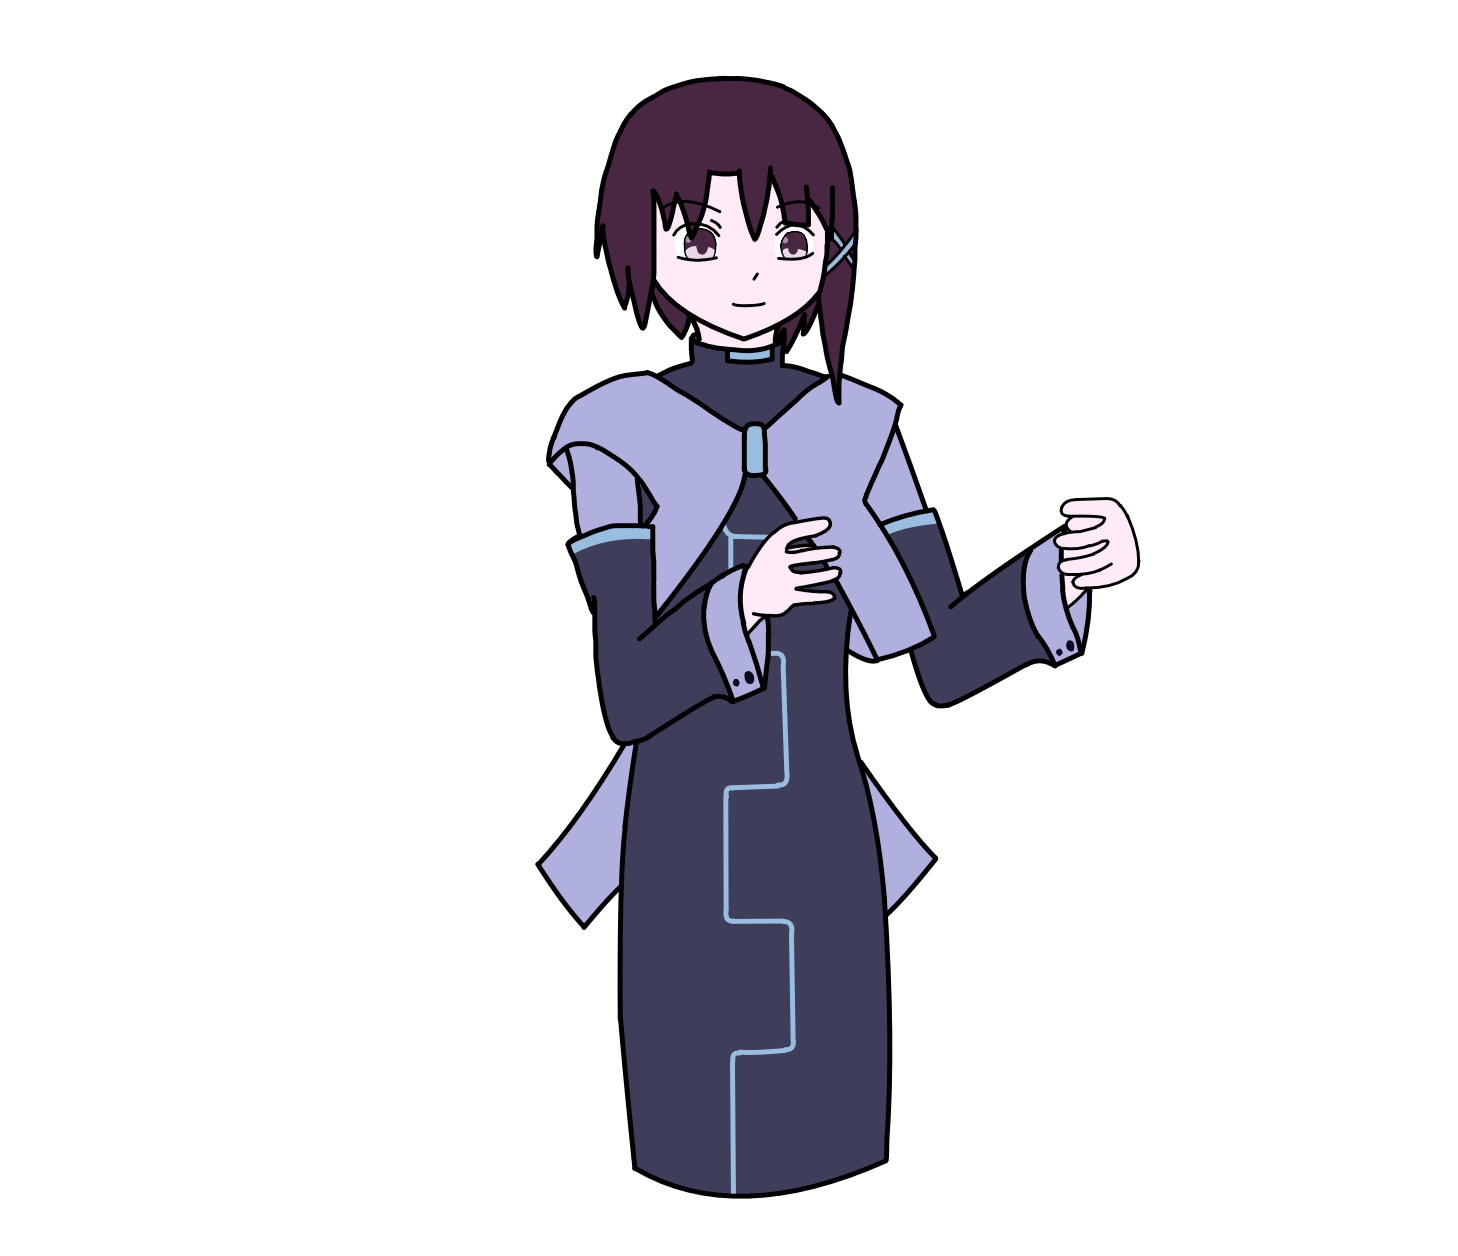
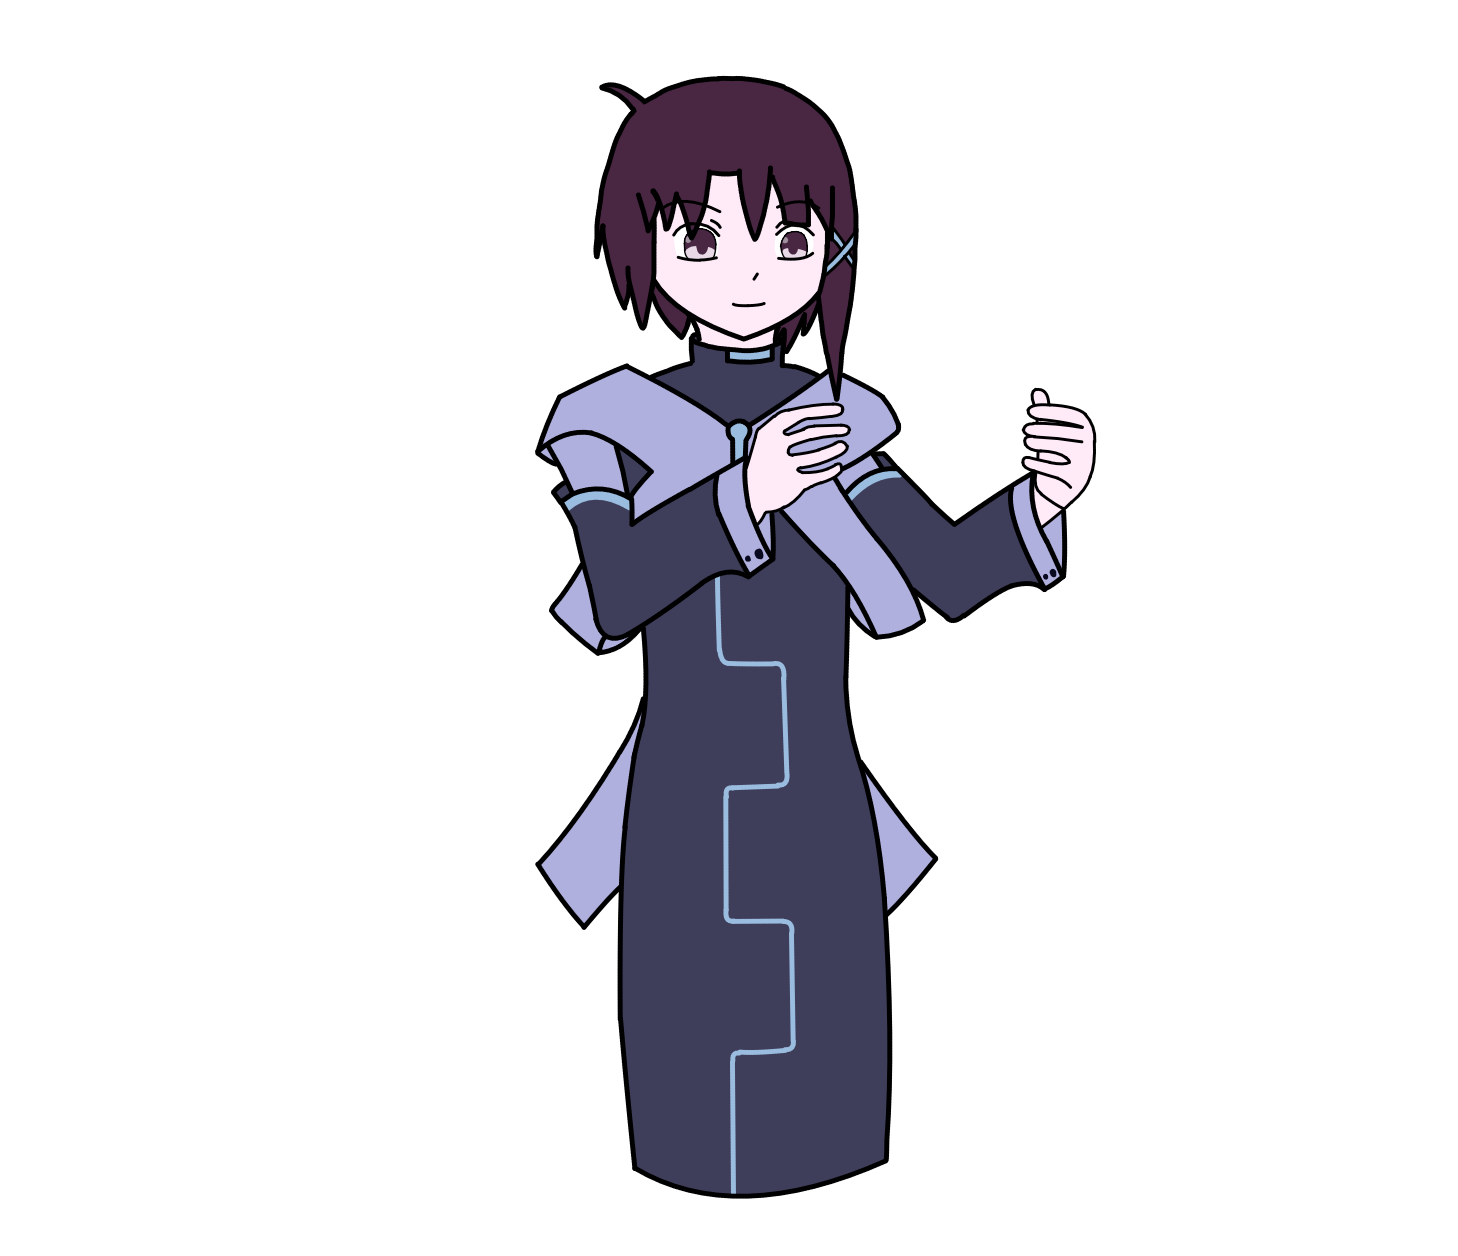
v0.0.18 一部画像でアホ毛が生えていない不具合を修正(画像差し替え) 画像の差し替え・追加 上記に伴うアニメーションの修正 ディレクトリ選択にFolderBrowserDialogを使用するように変更 最小化ボタン追加

diff --git a/PersonaLauncher/PersonaLauncher/Animation/AnimDic.xaml b/PersonaLauncher/PersonaLauncher/Animation/AnimDic.xaml
@@ -78,17 +78,32 @@
                     <BitmapImage UriSource="pack://siteoforigin:,,,/Images/ペルソナ_通常.png" />
 				</DiscreteObjectKeyFrame.Value>
 			</DiscreteObjectKeyFrame>
-			<DiscreteObjectKeyFrame KeyTime="0:0:1">
+			<DiscreteObjectKeyFrame KeyTime="0:0:2">
 				<DiscreteObjectKeyFrame.Value>
                     <BitmapImage UriSource="pack://siteoforigin:,,,/Images/ペルソナ_キャッチ.png" />
 				</DiscreteObjectKeyFrame.Value>
 			</DiscreteObjectKeyFrame>
             <DiscreteObjectKeyFrame KeyTime="0:0:4">
                 <DiscreteObjectKeyFrame.Value>
-                    <BitmapImage UriSource="pack://siteoforigin:,,,/Images/ペルソナ_投げ.png" />
+                    <BitmapImage UriSource="pack://siteoforigin:,,,/Images/ペルソナ_投げ_6.png" />
                 </DiscreteObjectKeyFrame.Value>
             </DiscreteObjectKeyFrame>
-            <DiscreteObjectKeyFrame KeyTime="0:0:7">
+            <DiscreteObjectKeyFrame KeyTime="0:0:4.1">
+                <DiscreteObjectKeyFrame.Value>
+                    <BitmapImage UriSource="pack://siteoforigin:,,,/Images/ペルソナ_投げ_7.png" />
+                </DiscreteObjectKeyFrame.Value>
+            </DiscreteObjectKeyFrame>
+            <DiscreteObjectKeyFrame KeyTime="0:0:4.2">
+                <DiscreteObjectKeyFrame.Value>
+                    <BitmapImage UriSource="pack://siteoforigin:,,,/Images/ペルソナ_投げ_8.png" />
+                </DiscreteObjectKeyFrame.Value>
+            </DiscreteObjectKeyFrame>
+            <DiscreteObjectKeyFrame KeyTime="0:0:5.5">
+                <DiscreteObjectKeyFrame.Value>
+                    <BitmapImage UriSource="pack://siteoforigin:,,,/Images/ペルソナ_投げ_9.png" />
+                </DiscreteObjectKeyFrame.Value>
+            </DiscreteObjectKeyFrame>
+            <DiscreteObjectKeyFrame KeyTime="0:0:6">
 				<DiscreteObjectKeyFrame.Value>
                     <BitmapImage UriSource="pack://siteoforigin:,,,/Images/ペルソナ_通常.png" />
 				</DiscreteObjectKeyFrame.Value>
@@ -108,7 +123,7 @@
                     <QuadraticEase EasingMode="EaseOut" />
                 </EasingDoubleKeyFrame.EasingFunction>
             </EasingDoubleKeyFrame>
-            <EasingDoubleKeyFrame KeyTime="0:0:2.4" Value="430">
+            <EasingDoubleKeyFrame KeyTime="0:0:2.4" Value="420">
                 <EasingDoubleKeyFrame.EasingFunction>
                     <QuadraticEase EasingMode="EaseIn" />
                 </EasingDoubleKeyFrame.EasingFunction>
@@ -119,7 +134,7 @@
                                        Duration="0:0:2.4"
                                        >
             <DiscreteDoubleKeyFrame KeyTime="0:0:1" Value="330" />
-            <LinearDoubleKeyFrame KeyTime="0:0:2.4" Value="240" />
+            <LinearDoubleKeyFrame KeyTime="0:0:2.4" Value="190" />
         </DoubleAnimationUsingKeyFrames>
     </Storyboard>
     <Storyboard x:Key="RightLowerMoveEnd">
@@ -152,7 +167,7 @@
                     <QuadraticEase EasingMode="EaseOut" />
                 </EasingDoubleKeyFrame.EasingFunction>
             </EasingDoubleKeyFrame>
-            <EasingDoubleKeyFrame KeyTime="0:0:2.4" Value="430">
+            <EasingDoubleKeyFrame KeyTime="0:0:2.4" Value="420">
                 <EasingDoubleKeyFrame.EasingFunction>
                     <QuadraticEase EasingMode="EaseIn" />
                 </EasingDoubleKeyFrame.EasingFunction>
@@ -163,7 +178,7 @@
                                        Duration="0:0:2.4"
                                        >
             <DiscreteDoubleKeyFrame KeyTime="0:0:1" Value="330" />
-            <LinearDoubleKeyFrame KeyTime="0:0:2.4" Value="240" />
+            <LinearDoubleKeyFrame KeyTime="0:0:2.4" Value="190" />
         </DoubleAnimationUsingKeyFrames>
     </Storyboard>
     <Storyboard x:Key="LeftLowerMoveEnd">
@@ -196,7 +211,7 @@
                     <QuadraticEase EasingMode="EaseOut" />
                 </EasingDoubleKeyFrame.EasingFunction>
             </EasingDoubleKeyFrame>
-            <EasingDoubleKeyFrame KeyTime="0:0:2.4" Value="430">
+            <EasingDoubleKeyFrame KeyTime="0:0:2.4" Value="420">
                 <EasingDoubleKeyFrame.EasingFunction>
                     <QuadraticEase EasingMode="EaseIn" />
                 </EasingDoubleKeyFrame.EasingFunction>
@@ -207,7 +222,7 @@
                                        Duration="0:0:2.4"
                                        >
             <DiscreteDoubleKeyFrame KeyTime="0:0:1" Value="30" />
-            <LinearDoubleKeyFrame KeyTime="0:0:2.4" Value="240" />
+            <LinearDoubleKeyFrame KeyTime="0:0:2.4" Value="190" />
         </DoubleAnimationUsingKeyFrames>
     </Storyboard>
     <Storyboard x:Key="RightUpperMoveEnd">
@@ -240,7 +255,7 @@
 					<QuadraticEase EasingMode="EaseOut" />
 				</EasingDoubleKeyFrame.EasingFunction>
 			</EasingDoubleKeyFrame>
-			<EasingDoubleKeyFrame KeyTime="0:0:2.4" Value="430">
+			<EasingDoubleKeyFrame KeyTime="0:0:2.4" Value="420">
 				<EasingDoubleKeyFrame.EasingFunction>
 					<QuadraticEase EasingMode="EaseIn" />
 				</EasingDoubleKeyFrame.EasingFunction>
@@ -251,7 +266,7 @@
                                        Duration="0:0:2.4"
                                        >
 			<DiscreteDoubleKeyFrame KeyTime="0:0:1" Value="30" />
-			<LinearDoubleKeyFrame KeyTime="0:0:2.4" Value="240" />
+			<LinearDoubleKeyFrame KeyTime="0:0:2.4" Value="190" />
 		</DoubleAnimationUsingKeyFrames>
     </Storyboard>
     <Storyboard x:Key="LeftUpperMoveEnd">
@@ -293,7 +308,7 @@
                                        BeginTime="0:0:4"
 									   Duration="0:0:2"
 									   >
-            <DiscreteDoubleKeyFrame KeyTime="0:0:0" Value="430"/>
+            <DiscreteDoubleKeyFrame KeyTime="0:0:0" Value="420"/>
             <LinearDoubleKeyFrame KeyTime="0:0:2" Value="320" />
             <!-- 見えないところに移動 -->
             <DiscreteDoubleKeyFrame KeyTime="0:0:2" Value="-200" />
@@ -302,7 +317,7 @@
                                        BeginTime="0:0:4"
                                        Duration="0:0:2"
                                        >
-            <DiscreteDoubleKeyFrame KeyTime="0:0:0" Value="240" />
+            <DiscreteDoubleKeyFrame KeyTime="0:0:0" Value="190" />
             <LinearDoubleKeyFrame KeyTime="0:0:2" Value="300" />
             <!-- 見えないところに移動 -->
             <DiscreteDoubleKeyFrame KeyTime="0:0:2" Value="-200" />

diff --git a/PersonaLauncher/PersonaLauncher/MainWindow.xaml b/PersonaLauncher/PersonaLauncher/MainWindow.xaml
@@ -5,12 +5,12 @@
         xmlns:mc="http://schemas.openxmlformats.org/markup-compatibility/2006"
         xmlns:local="clr-namespace:PersonaLauncher"
         mc:Ignorable="d"
-        Title="Persona Launcher ver 0.0.17" Height="600" Width="800"
+        Title="Persona Launcher ver 0.0.18" Height="600" Width="800"
 		
 		WindowStyle="SingleBorderWindow"
 		
 		Background="#111122"
-		ResizeMode="NoResize"
+		ResizeMode="CanMinimize"
         
         Closing="Window_Closing"
 		>

diff --git a/PersonaLauncher/PersonaLauncher/Persona.xaml.cs b/PersonaLauncher/PersonaLauncher/Persona.xaml.cs
@@ -98,11 +98,14 @@ namespace PersonaLauncher
                 DataItem dataItem = GetDataItem(menuItem);
                 if (dataItem != null)
                 {
-                    var openDirectoryDialog = new System.Windows.Forms.OpenFileDialog() { FileName = "DummyFileName", Filter = "Folder|.", CheckFileExists = false };
+                    //var openDirectoryDialog = new System.Windows.Forms.OpenFileDialog() { FileName = "ファイル名には何か入っていればOK", Filter = "Folder|.", CheckFileExists = false };
+                    var openDirectoryDialog = new System.Windows.Forms.FolderBrowserDialog();
+                    openDirectoryDialog.Description = "ディレクトリを選択";
 
                     if (openDirectoryDialog.ShowDialog() == System.Windows.Forms.DialogResult.OK)
                     {
-                        SetDirectory(dataItem, System.IO.Path.GetDirectoryName(openDirectoryDialog.FileName));
+                        //SetDirectory(dataItem, System.IO.Path.GetDirectoryName(openDirectoryDialog.FileName));
+                        SetDirectory(dataItem, System.IO.Path.GetDirectoryName(openDirectoryDialog.SelectedPath));
                     }
                 }
             }
